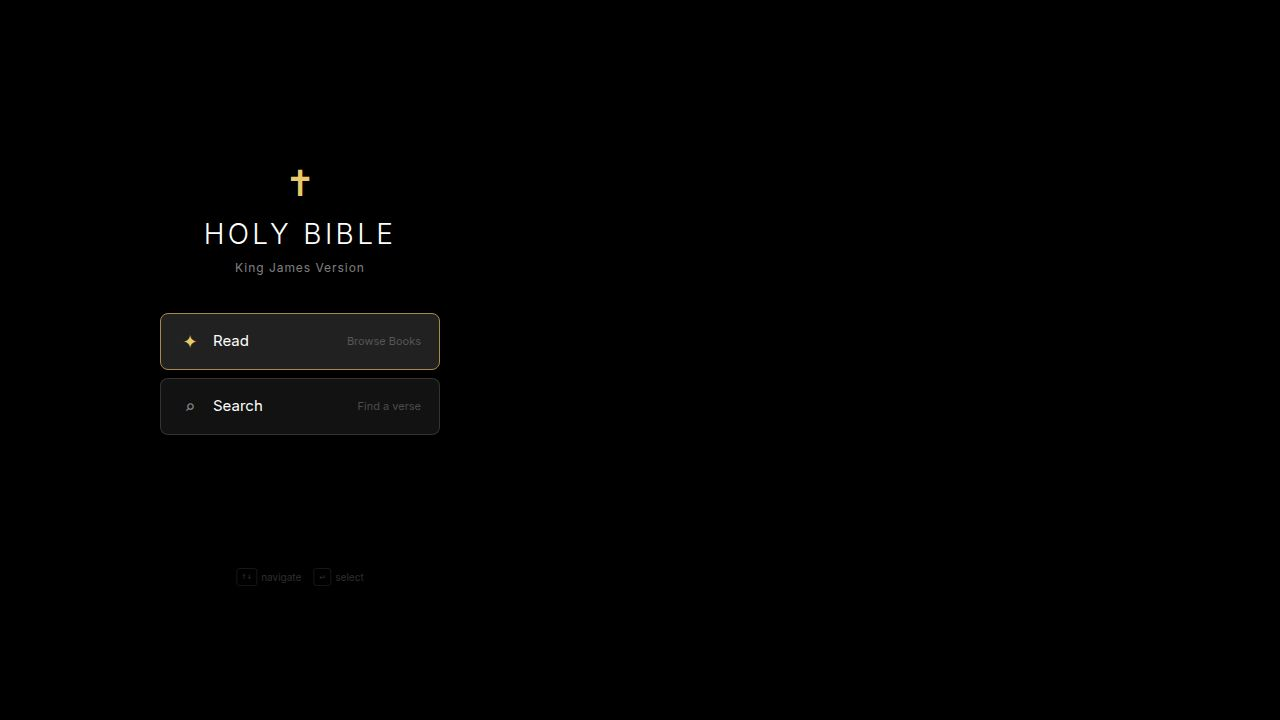
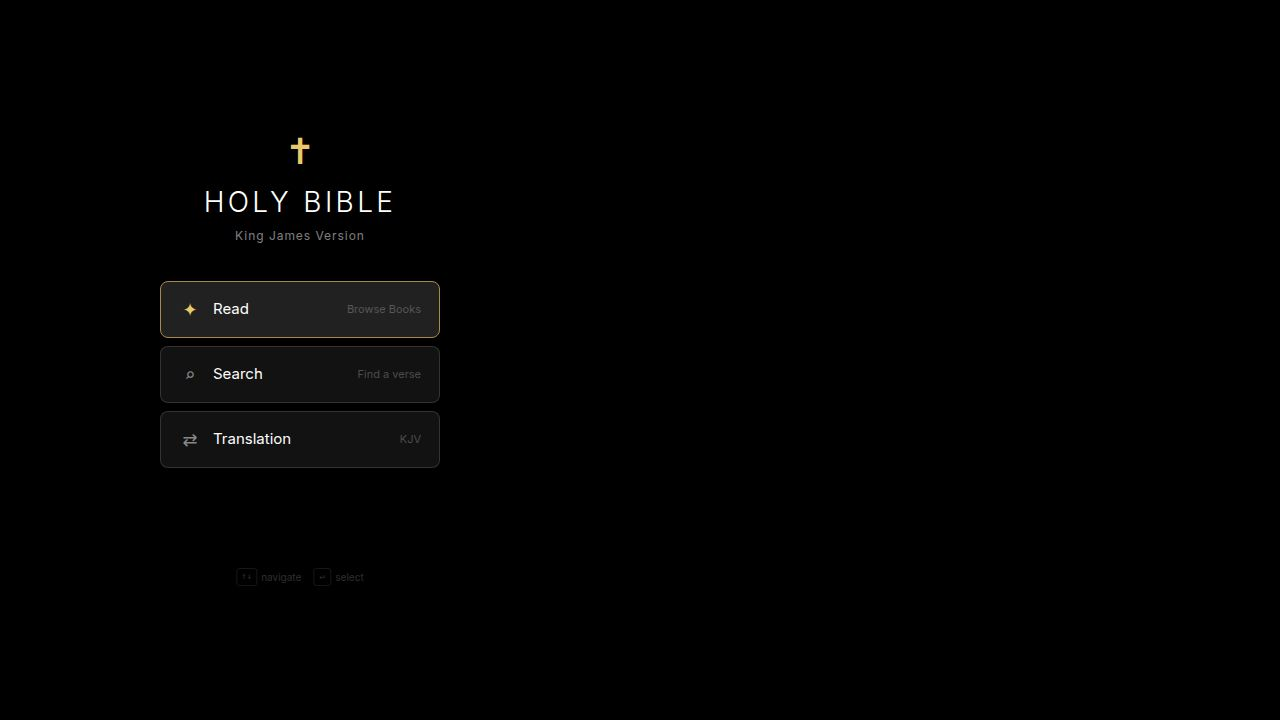
Add mouse wheel scrolling to navigate app content in browser preview
Adds a `wheel` event listener to `glass-app.js` to enable mouse wheel scrolling for navigating through various app screens (home, books, translations, chapters, search, reading) in the browser preview, mapping scroll direction to list index updates.

Replit-Commit-Author: Agent
Replit-Commit-Session-Id: 340b38c4-b992-4941-a83f-2ff8ddd5f14a
Replit-Commit-Checkpoint-Type: full_checkpoint
Replit-Commit-Event-Id: 7f270e36-3ca3-4635-a8a3-065117ee549b
Replit-Commit-Screenshot-Url: https://storage.googleapis.com/screenshot-production-us-central1/501bdeea-041b-4c50-b004-60295e889b95/340b38c4-b992-4941-a83f-2ff8ddd5f14a/ON8K4fP
Replit-Helium-Checkpoint-Created: true

Changed region(s): [[0.125, 0.3667, 0.3438, 0.6417], [0.1562, 0.1833, 0.3125, 0.3361]]

diff --git a/artifacts/bible-glass/src/glass-app.js b/artifacts/bible-glass/src/glass-app.js
@@ -388,6 +388,37 @@ document.addEventListener("keydown", (e) => {
   }
 });
 
+// ── Mouse wheel scroll (browser preview) ─────────────────────
+let wheelCooldown = false;
+document.addEventListener("wheel", (e) => {
+  e.preventDefault();
+  if (wheelCooldown) return;
+  wheelCooldown = true;
+  setTimeout(() => { wheelCooldown = false; }, 120);
+
+  const dir = e.deltaY > 0 ? 1 : -1;
+
+  if (state.screen === "home") {
+    state.listIdx = Math.max(0, Math.min(state.listIdx + dir, 2));
+    render();
+  } else if (state.screen === "books") {
+    state.listIdx = Math.max(0, Math.min(state.listIdx + dir, BOOKS.length - 1));
+    render();
+  } else if (state.screen === "translations") {
+    state.translationIdx = Math.max(0, Math.min(state.translationIdx + dir, TRANSLATIONS.length - 1));
+    render();
+  } else if (state.screen === "chapters") {
+    const book = BOOKS[state.listIdx];
+    state.chapterFocus = Math.max(0, Math.min(state.chapterFocus + dir, book.chapters - 1));
+    render();
+  } else if (state.screen === "search") {
+    state.searchIdx = Math.max(0, Math.min(state.searchIdx + dir, state.searchResults.length - 1));
+    render();
+  } else if (state.screen === "reading") {
+    if (dir > 0) nextPage(); else prevPage();
+  }
+}, { passive: false });
+
 // ── Render helpers ─────────────────────────────────────────────
 function el(tag, attrs = {}, ...children) {
   const elem = document.createElement(tag);